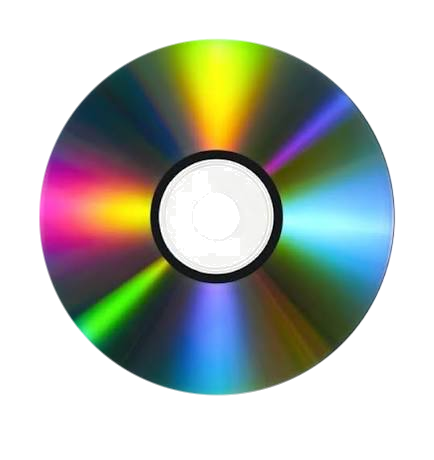
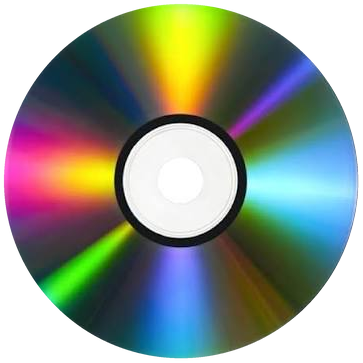
Update documentation and add new media assets
Replit-Commit-Author: Agent

diff --git a/docs/media-player.html b/docs/media-player.html
@@ -377,11 +377,11 @@
     <!-- Media Player unlock overlay (free trial users must pay 1000 discs once) -->
     <div id="media-unlock-overlay" style="display:flex; position:fixed; top:7vw; left:0; width:100%; height:calc(100% - 7vw); backdrop-filter:blur(12px) saturate(120%); background:rgba(0,0,0,0.65); z-index:9998; align-items:center; justify-content:center; pointer-events:auto;">
         <div style="text-align:center; color:#fff; font-family:'Montserrat',sans-serif; padding:2rem; max-width:420px;">
-            <img src="images/disc.png" alt="Dynamix Disc" style="width:96px; height:96px; border-radius:50%; margin-bottom:1rem; box-shadow:0 0 30px rgba(255,255,255,0.25);">
+            <img src="images/disc.png" alt="Dynamix Disc" style="width:128px; height:128px; border-radius:50%; margin-bottom:1rem; box-shadow:0 0 30px rgba(255,255,255,0.25);">
             <h2 style="font-size:2rem; margin-bottom:0.6rem; text-shadow:0 0 20px rgba(255,255,255,0.3);">Unlock Media Player</h2>
             <p style="font-size:1rem; color:#ccc; margin-bottom:1.5rem;">Free trial users can unlock the Media Player for 1,000 Dynamix Discs.</p>
             <button id="media-unlock-btn" class="dz-btn primary" style="font-size:1rem; padding:14px 28px;">
-                Unlock for 1,000 <img src="images/disc.png" alt="Disc" style="width:24px; height:24px; border-radius:50%; vertical-align:middle; margin-left:6px;">
+                Unlock for 1,000 <img src="images/disc.png" alt="Disc" style="width:34px; height:34px; border-radius:50%; vertical-align:middle; margin-left:6px;">
             </button>
             <p style="margin-top:1rem; font-size:0.85rem; color:#888;">Claim your daily bonus from the nav bar to earn more Discs.</p>
             <p id="media-unlock-error" style="color:#ff5b6a; margin-top:1rem; display:none;"></p>
@@ -443,7 +443,7 @@
                 errorEl.style.display = 'block';
             } finally {
                 unlockBtn.disabled = false;
-                unlockBtn.innerHTML = 'Unlock for 1,000 <img src="images/disc.png" alt="Disc" style="width:24px; height:24px; border-radius:50%; vertical-align:middle; margin-left:6px;">';
+                unlockBtn.innerHTML = 'Unlock for 1,000 <img src="images/disc.png" alt="Disc" style="width:34px; height:34px; border-radius:50%; vertical-align:middle; margin-left:6px;">';
             }
         });
 

diff --git a/docs/game-frame.html b/docs/game-frame.html
@@ -246,7 +246,7 @@
             max-width: 420px;
         }
         .game-unlock-card img.disc-hero {
-            width: 96px; height: 96px;
+            width: 128px; height: 128px;
             border-radius: 50%;
             margin-bottom: 1rem;
             box-shadow: 0 0 30px rgba(255, 255, 255, 0.25);
@@ -318,7 +318,7 @@
             <h2>Unlock Game</h2>
             <p>Free trial users can play this game for 100 Dynamix Discs. Once unlocked, it stays unlocked.</p>
             <button id="game-unlock-btn" class="gu-btn">
-                Play for 100 <img src="images/disc.png" alt="Disc" style="width:24px; height:24px; border-radius:50%; vertical-align:middle; margin-left:6px;">
+                Play for 100 <img src="images/disc.png" alt="Disc" style="width:34px; height:34px; border-radius:50%; vertical-align:middle; margin-left:6px;">
             </button>
             <p class="gu-hint">Claim your daily bonus from the nav bar to earn more Discs.</p>
             <p class="gu-error" id="game-unlock-error"></p>
@@ -457,7 +457,7 @@
                     unlockError.textContent = e.message;
                     unlockError.style.display = 'block';
                     unlockBtn.disabled = false;
-                    unlockBtn.innerHTML = 'Play for 100 <img src="images/disc.png" alt="Disc" style="width:24px; height:24px; border-radius:50%; vertical-align:middle; margin-left:6px;">';
+                    unlockBtn.innerHTML = 'Play for 100 <img src="images/disc.png" alt="Disc" style="width:34px; height:34px; border-radius:50%; vertical-align:middle; margin-left:6px;">';
                 }
             });
         }

diff --git a/docs/main.css b/docs/main.css
@@ -260,8 +260,8 @@ nav img {
 }
 
 .disc-balance .disc-icon {
-    width: 1.5vw;
-    height: 1.5vw;
+    width: 2.2vw;
+    height: 2.2vw;
     border-radius: 50%;
     object-fit: cover;
     box-shadow: 0 0 6px rgba(255, 255, 255, 0.3);
@@ -304,21 +304,21 @@ nav img {
 }
 
 .disc-icon {
-    width: 24px;
-    height: 24px;
+    width: 32px;
+    height: 32px;
     border-radius: 50%;
     object-fit: cover;
     vertical-align: middle;
 }
 
 .disc-icon.sm {
-    width: 18px;
-    height: 18px;
+    width: 26px;
+    height: 26px;
 }
 
 .disc-icon.lg {
-    width: 44px;
-    height: 44px;
+    width: 64px;
+    height: 64px;
 }
 
 @media (max-width: 768px) {
@@ -331,8 +331,8 @@ nav img {
         font-size: 2.5vw;
     }
     .disc-balance .disc-icon {
-        width: 4vw;
-        height: 4vw;
+        width: 6vw;
+        height: 6vw;
     }
     .disc-claim-btn {
         font-size: 2.2vw;
